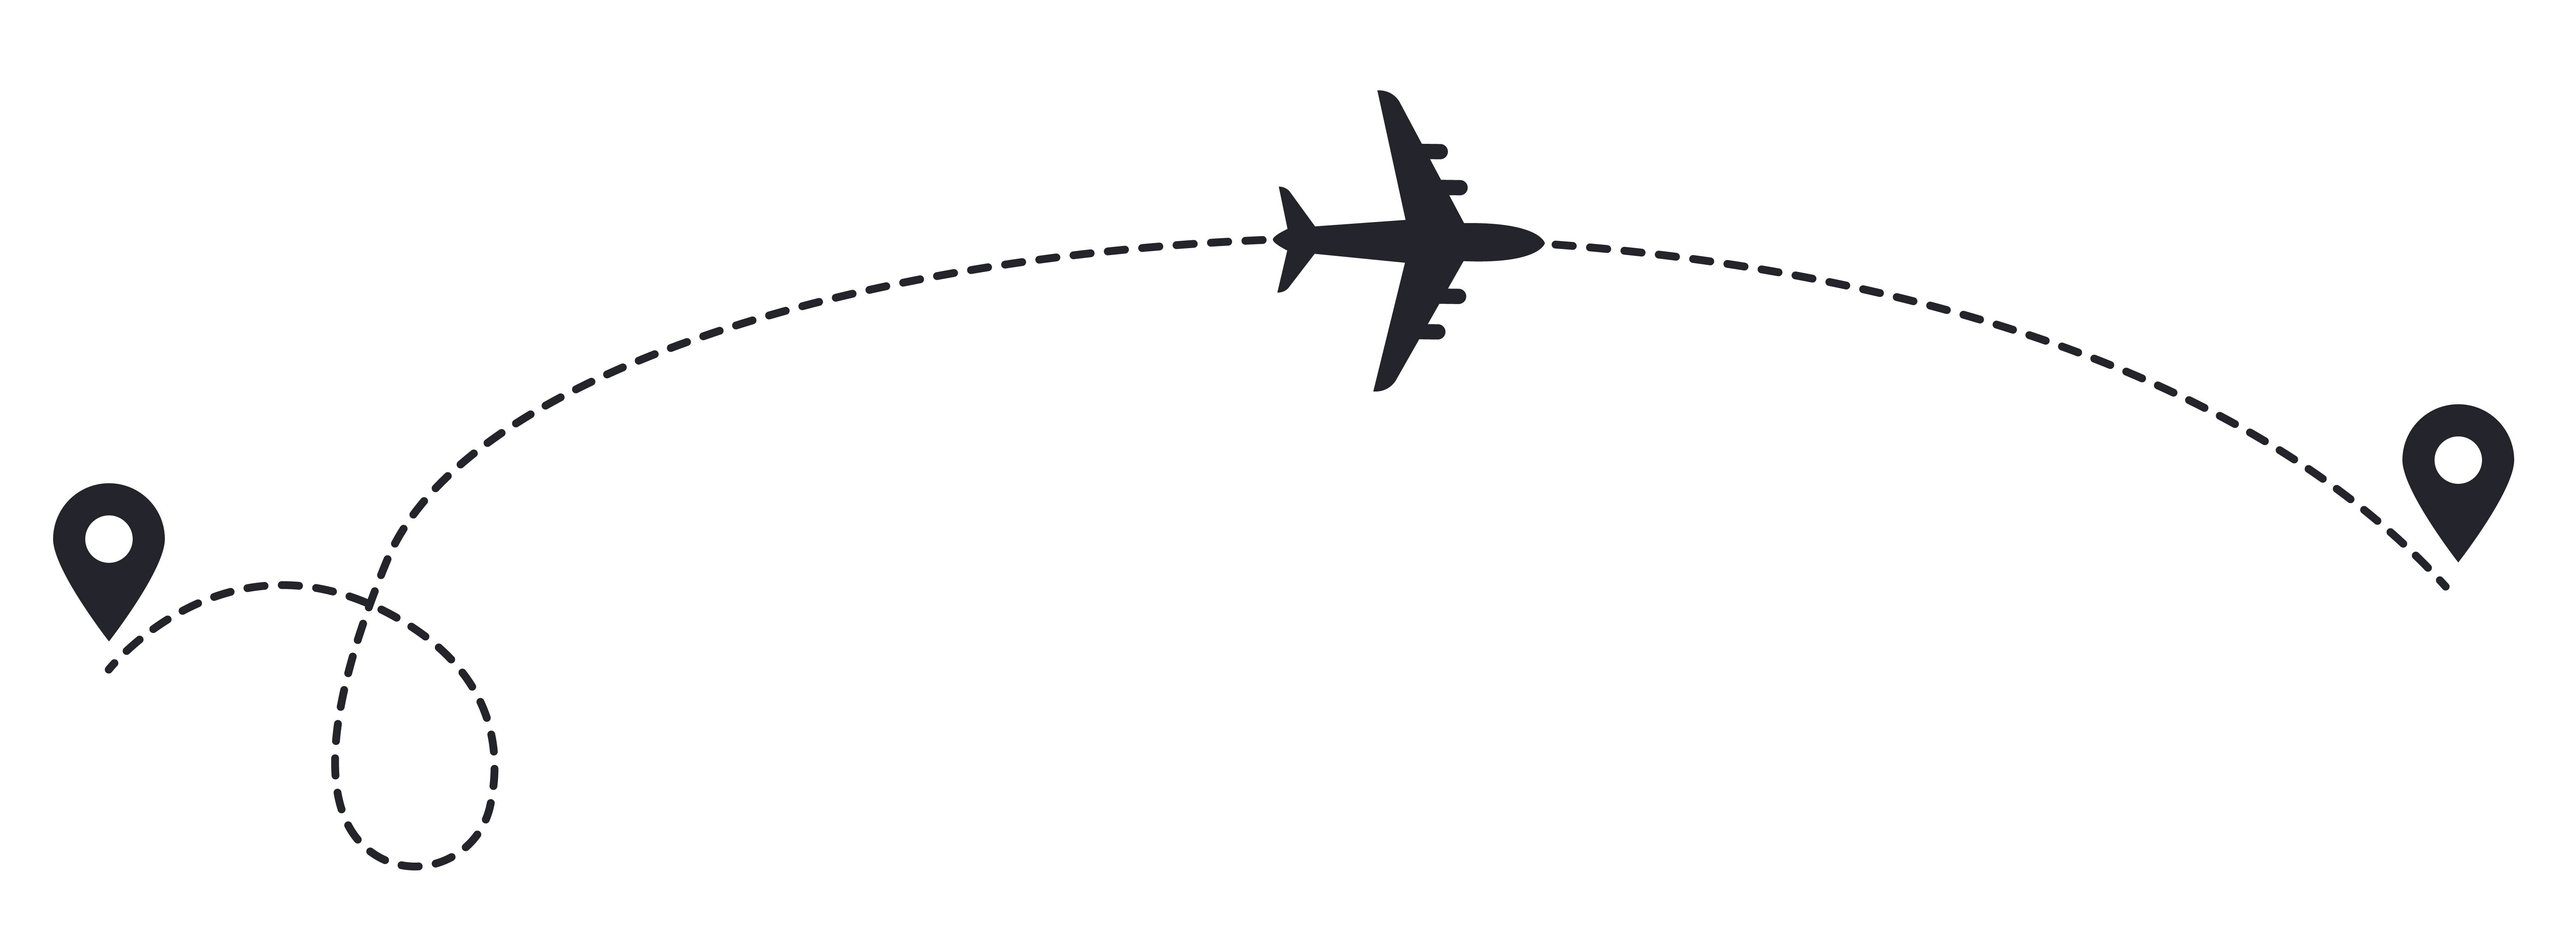
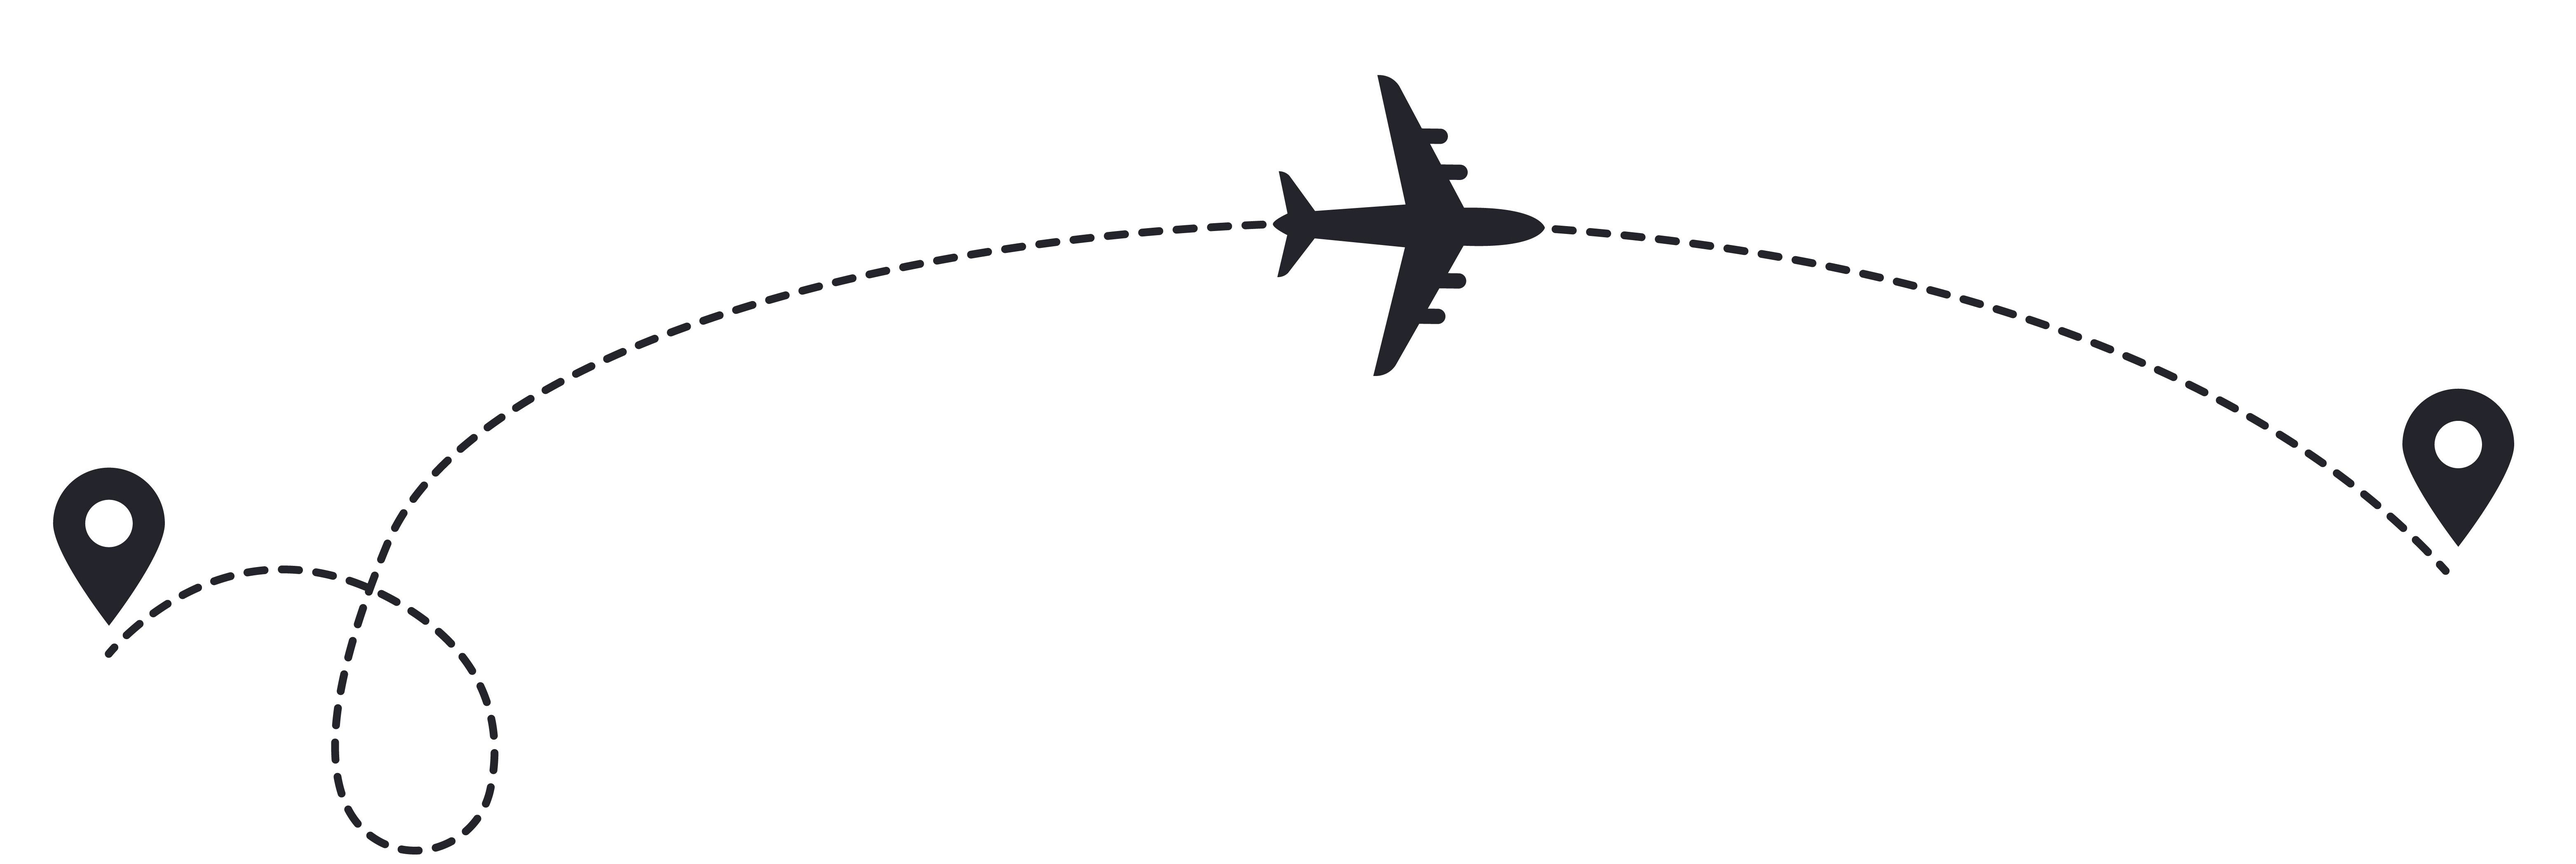
changed image position and opacity

diff --git a/app/generate-itinerary/components/TravelForm.tsx b/app/generate-itinerary/components/TravelForm.tsx
@@ -234,13 +234,15 @@ export default function TravelForm() {
         </div>
       )}
 
-    <div>
-        <Image src={airplaneTravelImage} alt="Airplane"/>
-    </div>
+      <div>
+        <div>
+          <Image src={airplaneTravelImage} alt="Airplane" className="opacity-60" />
+        </div>
 
-    <div className="relative z-10">
-        <ExampleCards />
-    </div>
+        <div className="relative z-10 mt-[-100px]">
+          <ExampleCards />
+        </div>
+      </div>
     </div>
   );
 }
